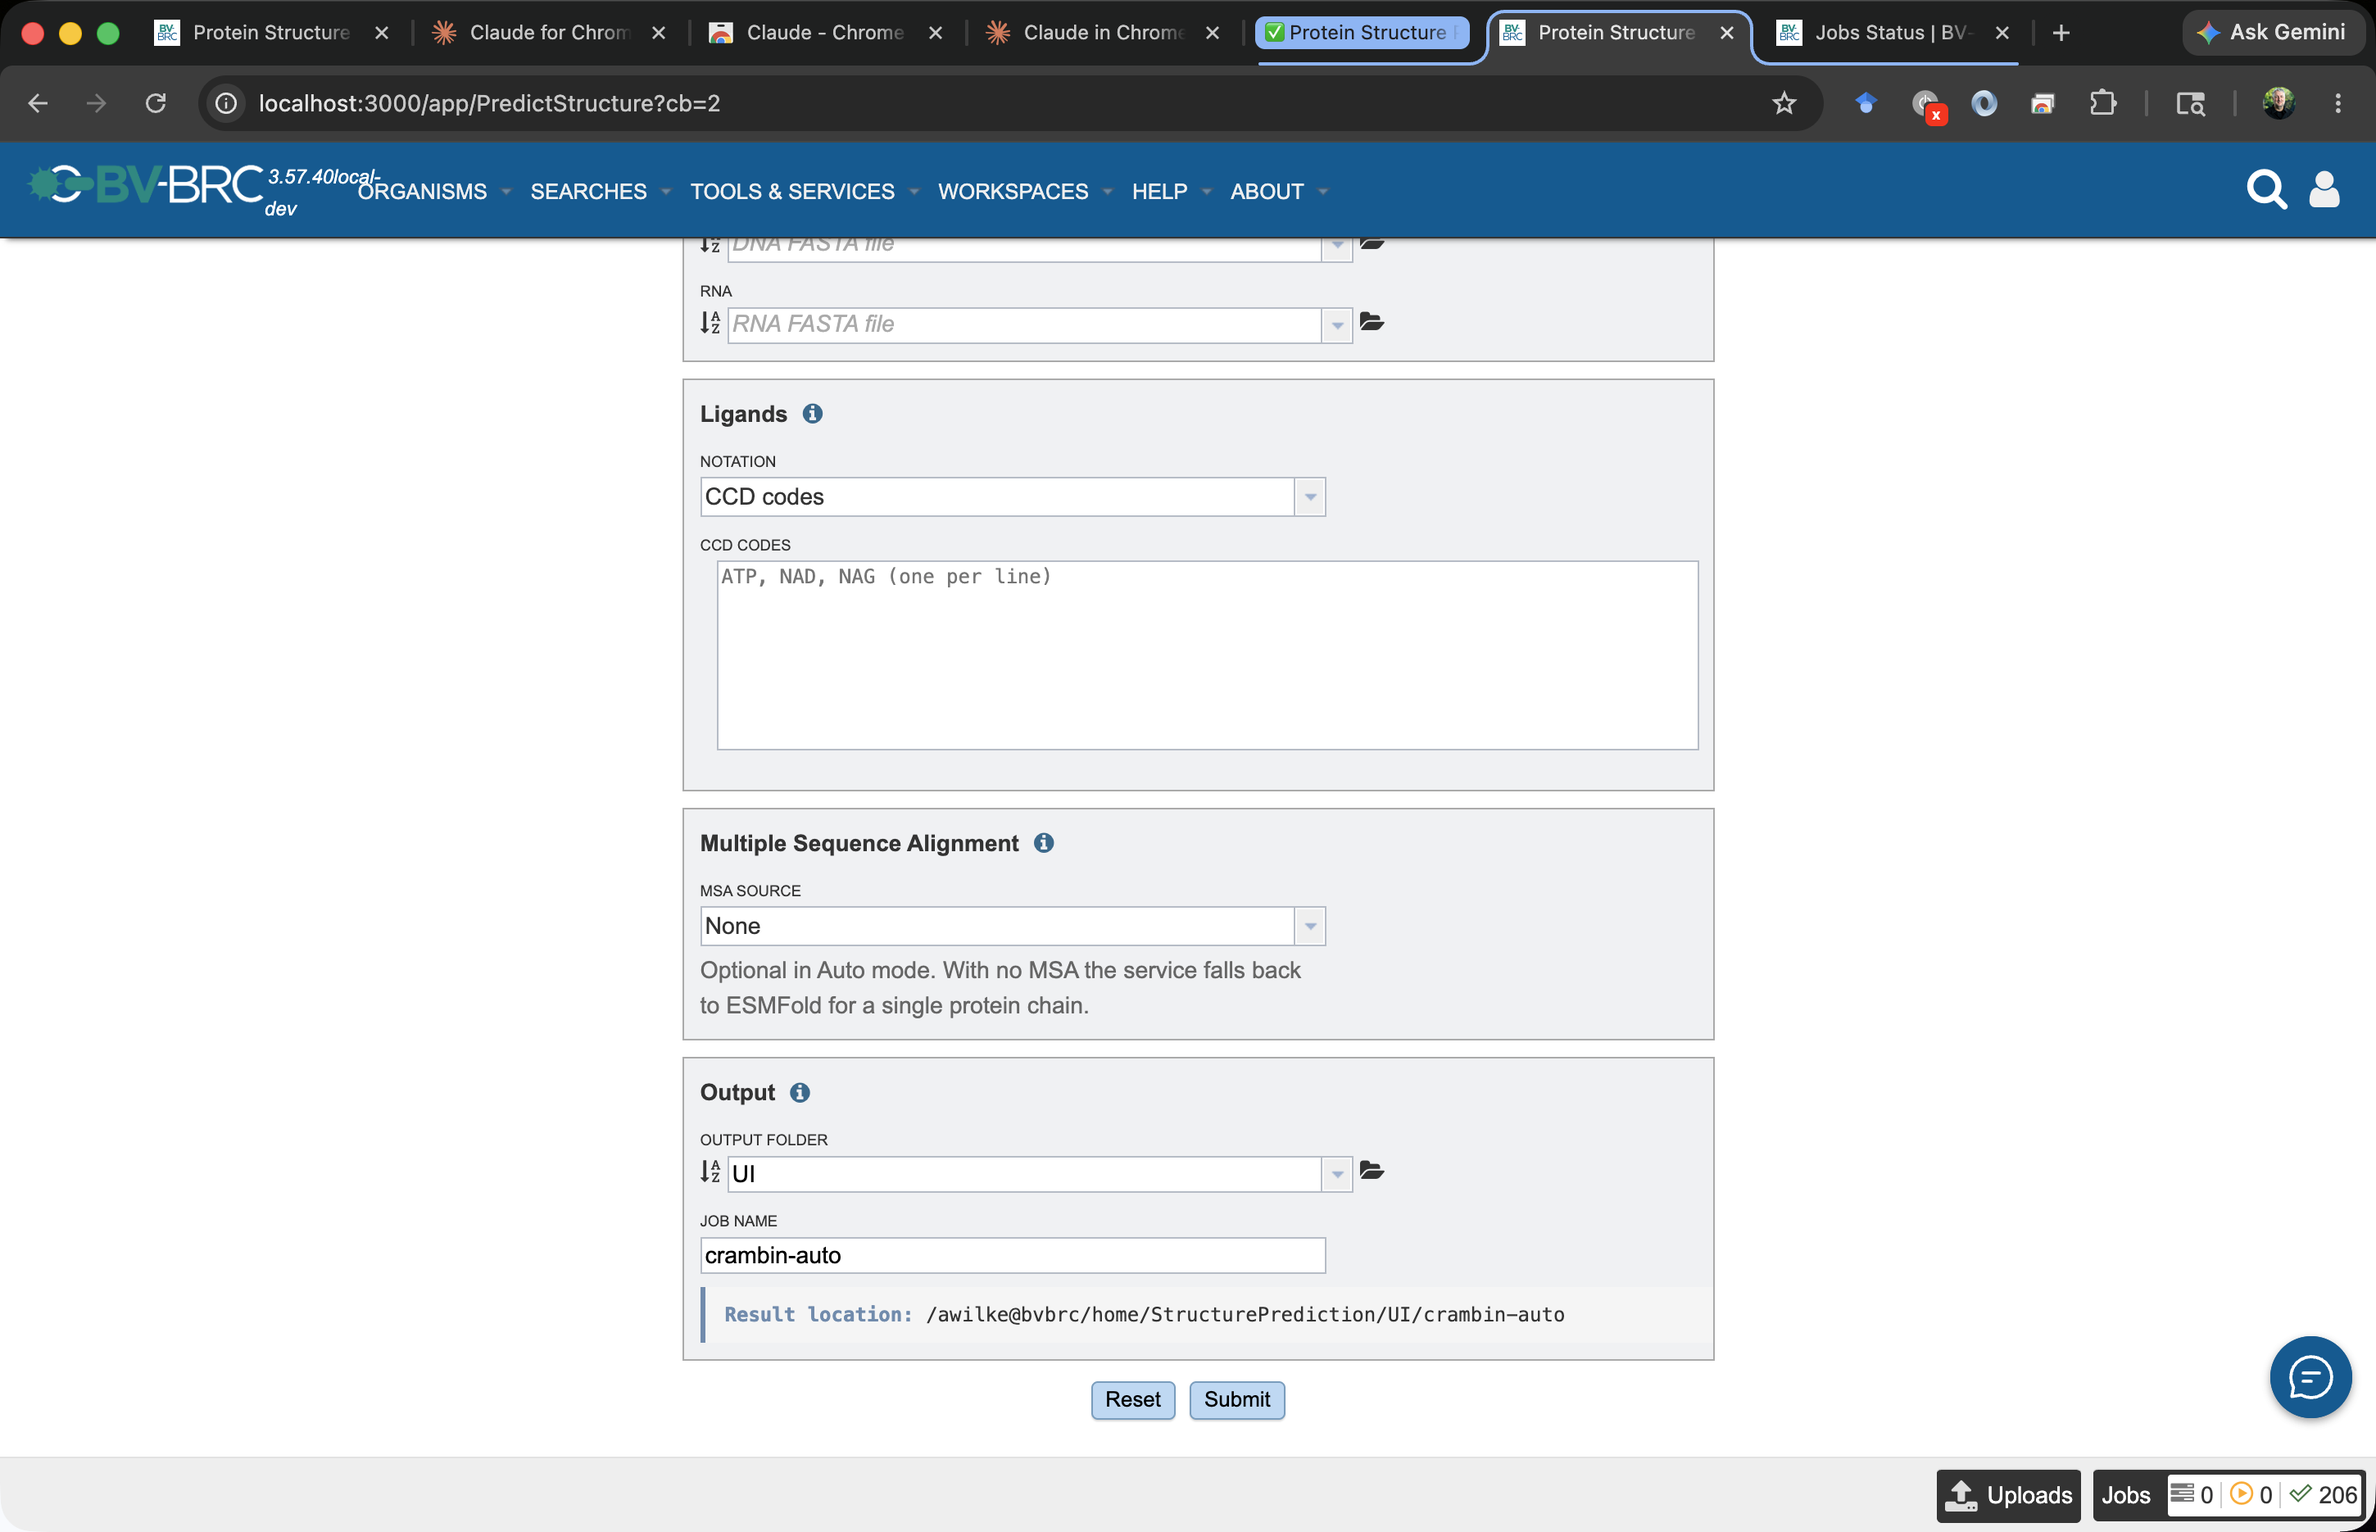
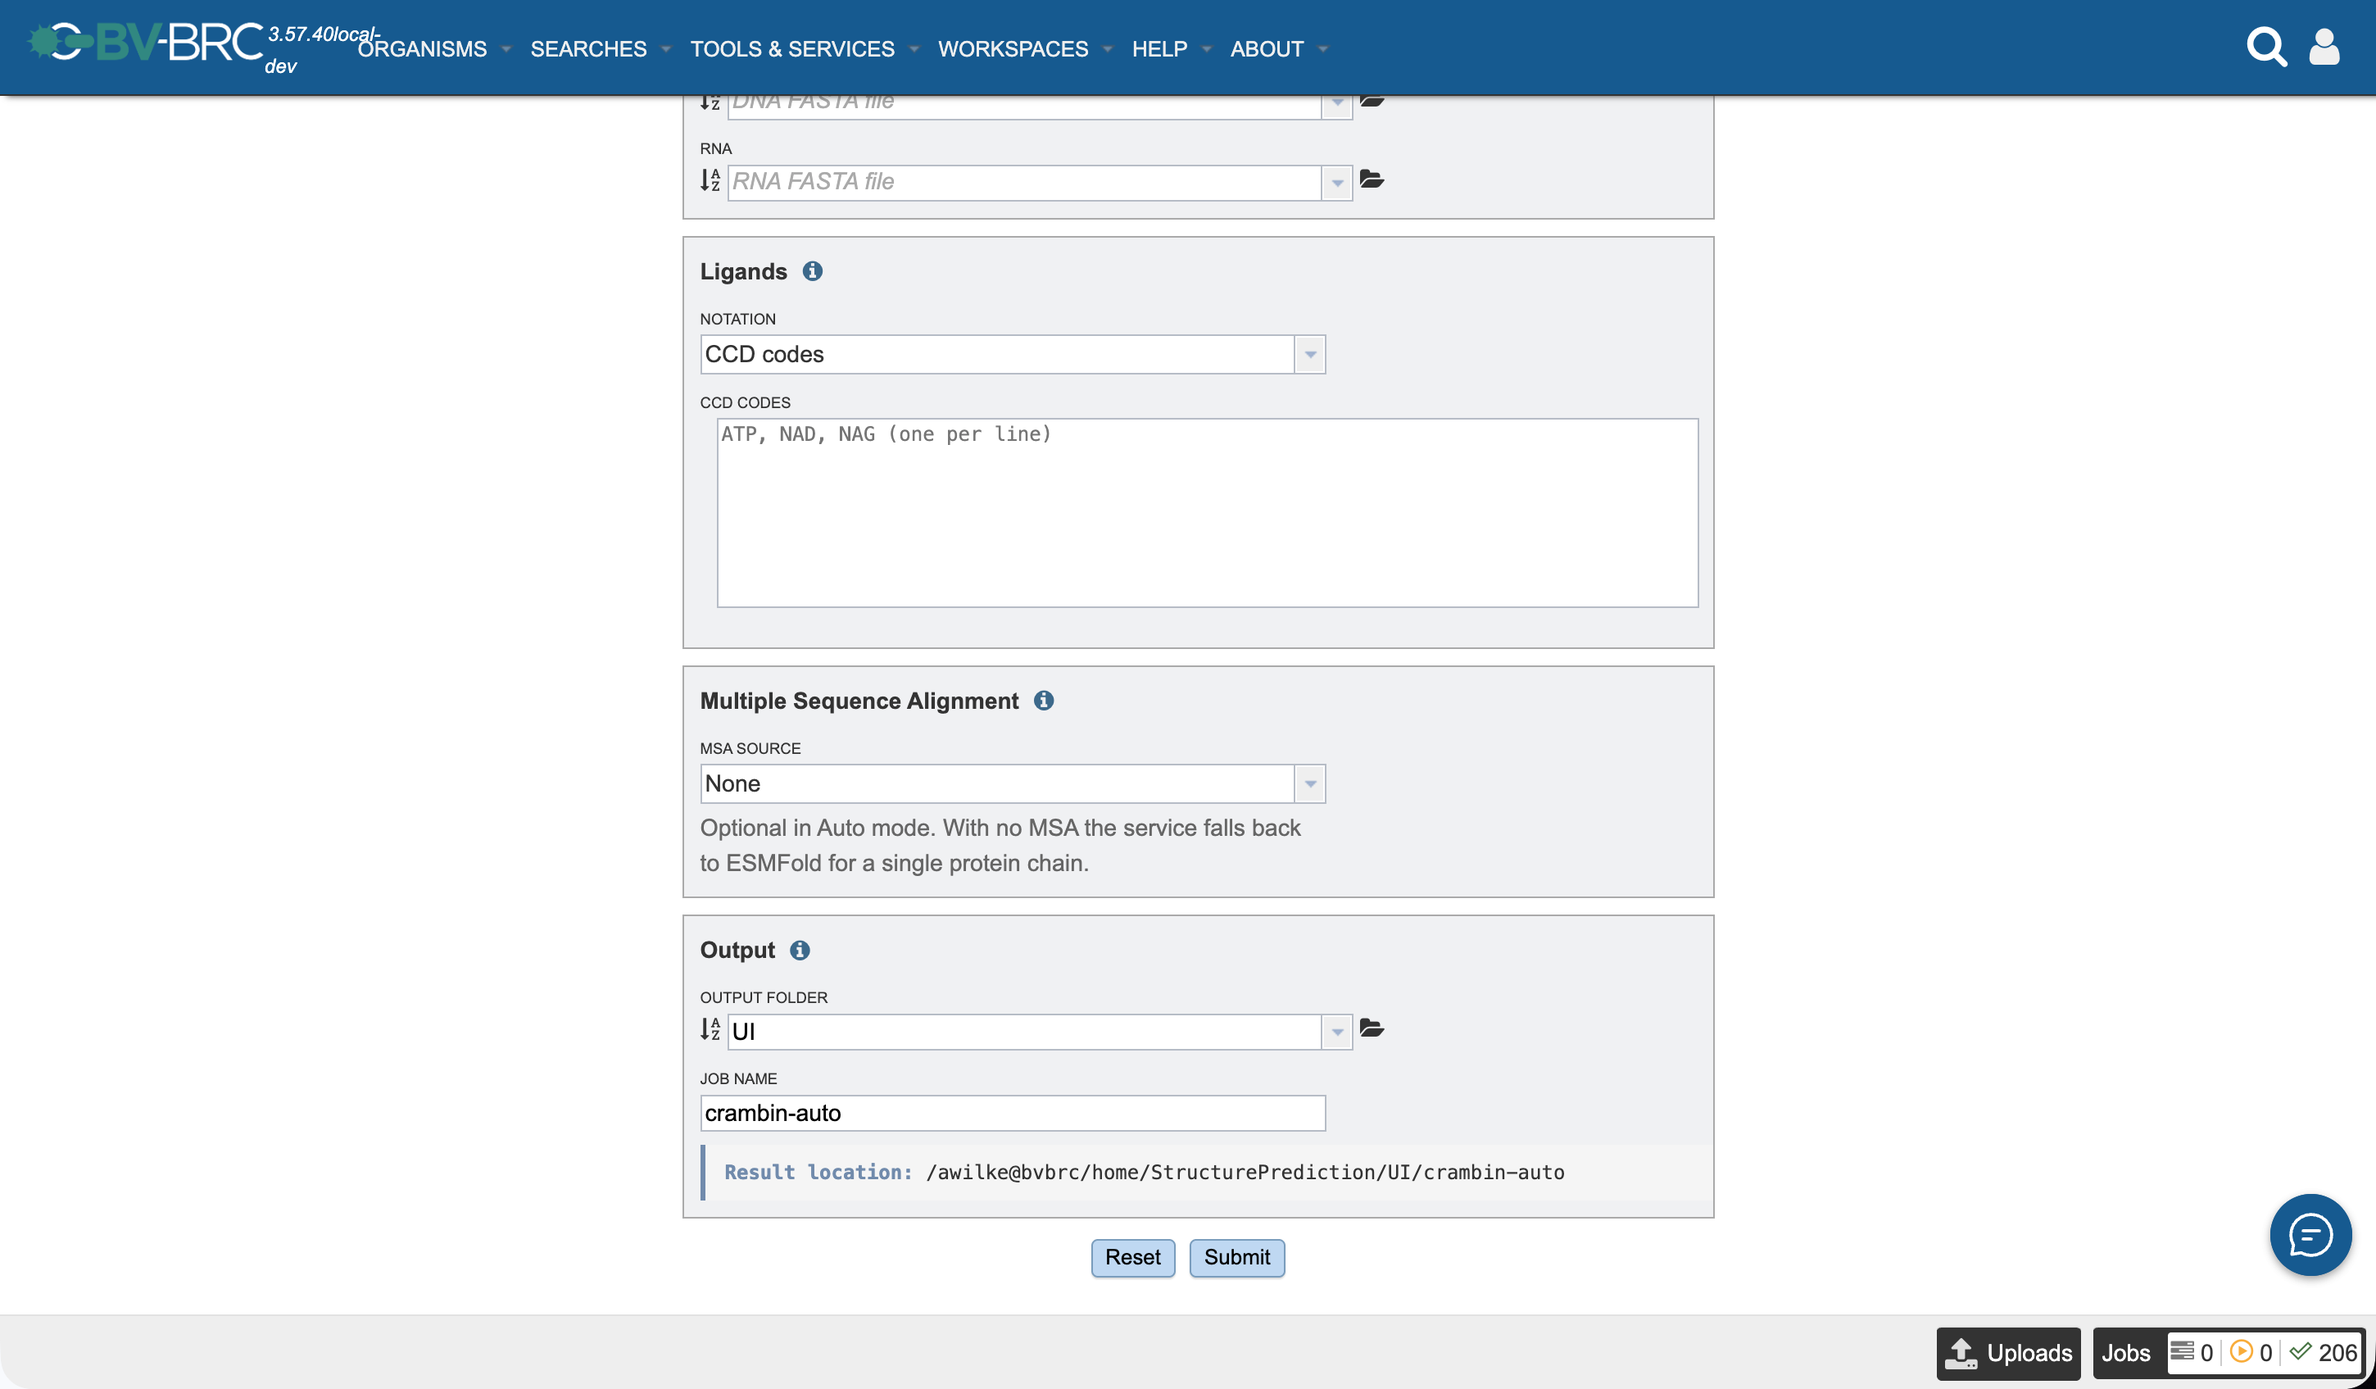
Predict Structure tutorial: clean screenshots, add sign-in image, fix URLs
- Crop browser chrome (tab strip, URL bar, and on 05 the DevTools infobar)
  from all tutorial screenshots so only the app viewport is shown.
- Add the missing 01_signin.png, referenced by the Sign In step but never
  committed. Captured from https://www.bv-brc.org with the Sign In button
  highlighted.
- Point the tutorial at www.bv-brc.org instead of alpha.bv-brc.org; the
  alpha site is not referenced in user-facing docs.
- Drop the "Running locally?" note about http://localhost:3000.

Claude-Session: https://claude.ai/code/session_01LFbPLL7vXdceEDgSi4jJX7

diff --git a/docroot/tutorial/predict_structure/predict_structure.md b/docroot/tutorial/predict_structure/predict_structure.md
@@ -17,8 +17,6 @@ This tutorial walks you through predicting the 3D structure of a small protein f
 
 You do **not** need a GPU, an MSA, or any local software. Everything happens on the BV-BRC servers.
 
-> **Running locally?** If you're running a local copy of the BV-BRC web UI, open `http://localhost:3000/app/PredictStructure` instead of the production URL below. The form, the workspace, and the result viewer behave identically — the job runs on the real BV-BRC backend either way.
-
 ## Background — what we're predicting
 
 Crambin is a hydrophobic 46-residue protein from the *Crambe abyssinica* seed. Its experimental structure (PDB ID `1CRN`) has been solved at near-atomic resolution, which means we have ground truth to compare against. The sequence:
@@ -33,7 +31,7 @@ For a deeper introduction to what the prediction is actually doing, see the Prot
 
 ## Step 1 — Sign in
 
-Open <https://alpha.bv-brc.org> in your browser. Click **Sign In** in the top-right corner.
+Open <https://www.bv-brc.org> in your browser. Click **Sign In** in the top-right corner.
 
 ![BV-BRC landing page with Sign In highlighted](./images/01_signin.png "BV-BRC landing page with Sign In highlighted")
 
@@ -63,7 +61,7 @@ The file appears in the folder once upload completes.
 
 From the main menu, choose **Services** → **Protein Tools** → **Protein Structure Prediction**.
 
-Or go directly to: <https://alpha.bv-brc.org/app/PredictStructure>
+Or go directly to: <https://www.bv-brc.org/app/PredictStructure>
 
 You should see the input form:
 
